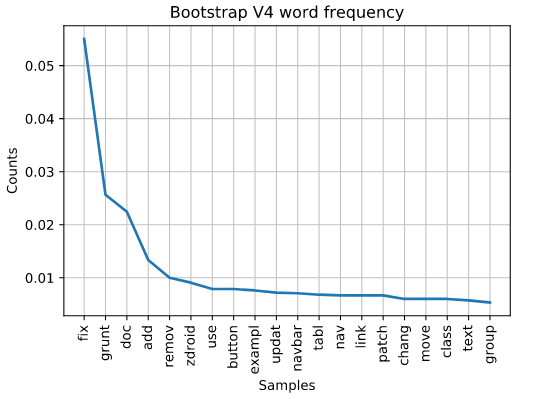
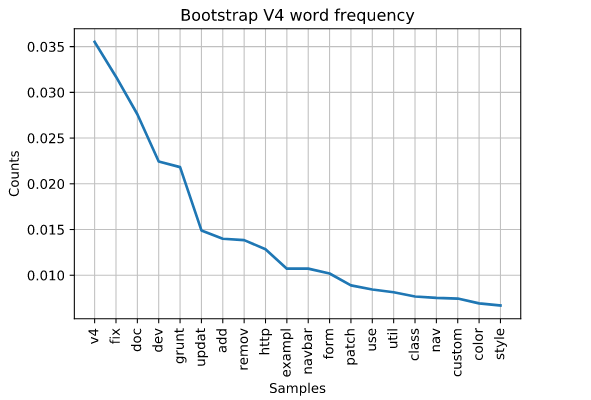
write up finished

Changed region(s): [[0.0, 0.0, 0.929, 0.9925]]

diff --git a/datascience/_posts/2020-05-20-bootsrap.md b/datascience/_posts/2020-05-20-bootsrap.md
@@ -2,7 +2,7 @@
 background: https://cdna.artstation.com/p/assets/images/images/013/894/732/large/mike-bear-downlox-12.jpg?1541551686
 layout: post
 artist: Devin
-subtitle: Software verison predictions, how powerful can words be?
+subtitle: Software verison predictionscd, how powerful can words be?
 title: Bootstrap and Mark Otto
 category: datascience
 ---
@@ -10,7 +10,70 @@ category: datascience
 
 <img style="height: .1%; width: .1%;" src="https://cdna.artstation.com/p/assets/images/images/013/894/732/large/mike-bear-downlox-12.jpg?1541551686" alt="">
 
-<img style="height: 100%; width: 100%;" src="" alt="">
+## Mark Otto and bootstrap
+For any that don’t know the domain, Mark Otto is the creator and an active participant of Bootstrap. The framework that changed the look of the internet. Bootstrap is one of the largest Github repositories on the internet. I has *alot* of contributors. I chose Mark Otto simply because he’s a web developer celebrity. I recognize that extremely meaningful contributions have been made by many other developers out there, and I’m in no way trying to dimension there work and effort.
+
+## Mining Op.
+All my source code can be found in my [Github](https://github.com/thepinkturtle/polymorphic_categon.git) repo. I used Python, Pandas, Numpy, Matplotlib, NLTK, Jupyter and datasets gathered from Github logs.
+
+## Purpose
+I wanted to explore Natural Language Processing techniques. I use the very popular [Natural Language ToolKit](https://www.nltk.org/). The folks behind this project did a great job. I like using it and the documentation is superb! 
+
+## Dataset
+I mined my own data from scratch. I sifted over more than a decade of git logs. I imported all the logs into 2 columns: “Date” and “Comment.” Then, I split the data into four different sets. One for each version of Bootstrap, v2-v5. v5 isn’t out yet, so it’s a great time to mine the data since we can make some predictions or, get some insights as to what is expected with the official release.
+
+## NLTK
+I created a corpus of all the comments of each data set. A corpus is essentially a big document of words. I stripped the corpus of all the common stop words. These are all the non-essential words in a sentence such as, “is” or “are.” Next, I looked at the top 20 most frequent words. I added to the “stop words” list some words I found to not be helpful. Words that were domain specific like; “merge”, “pull” and “request.”
+
+Then, I removed all punctuation from the sentences. Otherwise, I ended up with “:” and “,” as the most common items reported in my plots. Clearly, this isn’t useful for my purposes.
+
+Finally, I used NLTK to stem all the words. This is a process linguists use to find the root of a word. For example, Mark Otto says “fix” a lot in his comments. However, sometimes he says “fixes” and “fixed,” and even “fixing.” When you're looking for the frequency of a word, you’d have to look for all of those alterations of the word in order to get an actual representation of how often he is fixing something. When stemming the words, they’re iteratively broken down into their constituent root form. In this example it’d be “fix.”
+
+
+## Word Cloud
+I found a nice easy to use project on Github that creates a cool little word cloud. Word clouds are a fun visual way to digest information. It’s hard for me to believe sometimes, however not everyone wants to stare are plots and charts. The project can be found on [Github by: Andreas Mueller](https://github.com/amueller/word_cloud).
+
+## The Plots
+All the datasets I created are all the comments leading up to the official release of the specific version of Bootstrap. Version 2 was released back in January of 2012, all these comments were prior to January 31st 2012.
+
+I’ve include a true linguistic frequency and what I called a count plot for each version. NLTK has a function ```FreqDist``` which computes the number of times a word is used. However, I wanted to see how often that word was used compared to the rest of the words or, frequency normalized. Naturally, I’m not going to do this myself. Hell, that’s half the reason I use Python so that I can build upon what others have accomplished. I found this handy function by: [Martina Pugliese](https://martinapugliese.github.io/plotting-the-actual-frequencies-in-a-FreqDist-in-nltk/).
+
+## Bootstrap v2.
+Perhaps the most interesting version because the top word “fix” appears at a frequency of nearly, 4%. Which is less than that of any others, barring v5 which isn’t released yet. The second most common word is update. Due to the stemming we get what is frequently called over stemming. Some of the words get trimmed a bit too much, but this doesn’t really dimension the readability. 
+
+Compared to the others it seems that Mark worked on a lot of updates, twitter integration and page features. The Twitter word makes sense. Twitter experienced rapid growth around 2007-2010 and even released a new website. Therefore, it makes sense that we’d see a lot of comments centered around Twitter integration leading up to v2, which was released in 2012. This was also the first official version to support “responsive web design” techniques. Which can be noticed by the keyword towards the end “respons.”
+
+<img style="height: .1%; width: .1%;" src="https://raw.githubusercontent.com/thepinkturtle/thepinkturtle.github.io/master/datascience/_posts/images/bootstrap/v2_freq.png" alt="plot of bootstrap v2 frequency of words in github comments">
+
+<img style="height: .1%; width: .1%;" src="https://raw.githubusercontent.com/thepinkturtle/thepinkturtle.github.io/master/datascience/_posts/images/bootstrap/v2_count.png" alt="plot of bootstrap v2 word count in github comments">
+
+## Bootstrap v3
+Now let’s look at the next version of Bootstrap, which was released on August 19, 2013. Fix is still the top word. No surprise there. We see “navbar” appear for the first time. V2 and v3 it would seem were similar for Mark because he was working on a lot of “wips” since these are also in the top words, whereas they don’t even appear in later versions by him. Perhaps, he was still working heavily on developing new features. 
+
+<img style="height: .1%; width: .1%;" src="https://raw.githubusercontent.com/thepinkturtle/thepinkturtle.github.io/master/datascience/_posts/images/bootstrap/v3_freq.png" alt="plot of bootstrap v3 frequency of words in github comments">
+
+<img style="height: .1%; width: .1%;" src="https://raw.githubusercontent.com/thepinkturtle/thepinkturtle.github.io/master/datascience/_posts/images/bootstrap/v3_count.png" alt="plot of bootstrap v3 word count in github comments">
+
+## Bootstrap v4
+V4 was officially released January 18, 2018. One of the top words that should be noticed is “grunt”. Well, if you know your JavaScript tool chain history, which I most certainly did not, Grunt is a tool used to help developers with the JavaScript build process. Grunt was officially released in January of 2012. It would make sense that we start seeing comments pop up regarding it after v3 of Bootstrap. 
+
+<img style="height: .1%; width: .1%;" src="https://raw.githubusercontent.com/thepinkturtle/thepinkturtle.github.io/master/datascience/_posts/images/bootstrap/v4_count.png" alt="plot of bootstrap v3 word count in github comments">
+
+<img style="height: .1%; width: .1%;" src="https://raw.githubusercontent.com/thepinkturtle/thepinkturtle.github.io/master/datascience/_posts/images/bootstrap/v4_freq.png" alt="plot of bootstrap v3 word count in github comments">
+
+## Less work on fixing
+Mark, it seems, is working less on fixing related items as the versions get later. We see in v2 his frequency of the word “fix” is at 4% and then in v3 it’s at an all time high of 5%. Then, we see it decline to 3.5% for v4 and what we have of the v5 release. 
+
+## The future of Bootstrap
+Thus far, it seems Mark is working on a lot of documentation. V4 is still pretty high on the list so perhaps he’s still working on v4. However, we can also see http is at the end of the list. Does this mean we’ll be getting some new http api features? Also, the word “new” pops up for the first time. 
+<img style="height: .1%; width: .1%;" src="https://raw.githubusercontent.com/thepinkturtle/thepinkturtle.github.io/master/datascience/_posts/images/bootstrap/v5_count.png" alt="plot of bootstrap v3 word count in github comments">
+
+<img style="height: .1%; width: .1%;" src="https://raw.githubusercontent.com/thepinkturtle/thepinkturtle.github.io/master/datascience/_posts/images/bootstrap/v5_freq.png" alt="plot of bootstrap v3 word count in github comments">
+
+But, the most we can really glean from this, is that it would appear Mark is still working extensively on features associated with v4. Not surprising since he was working extensively on v3 and then got pulled away to help with the v4 release. It appears the same thing might be happening again. 
+
+## Wrap up
+Either way, I’m sure Mark and all the lovely developers working on Bootstrap will continue to impress the rest of use. I’m so thankful for all the developers that work on this project. Without it my websites would look horrendous. Thanks for all the help Bootstrap developers! Thanks for the data Mark. 
 
 ## Sources 
 Banner and thumbnail taken from [Mike Bear](https://www.artstation.com/artwork/Vdgba5)
